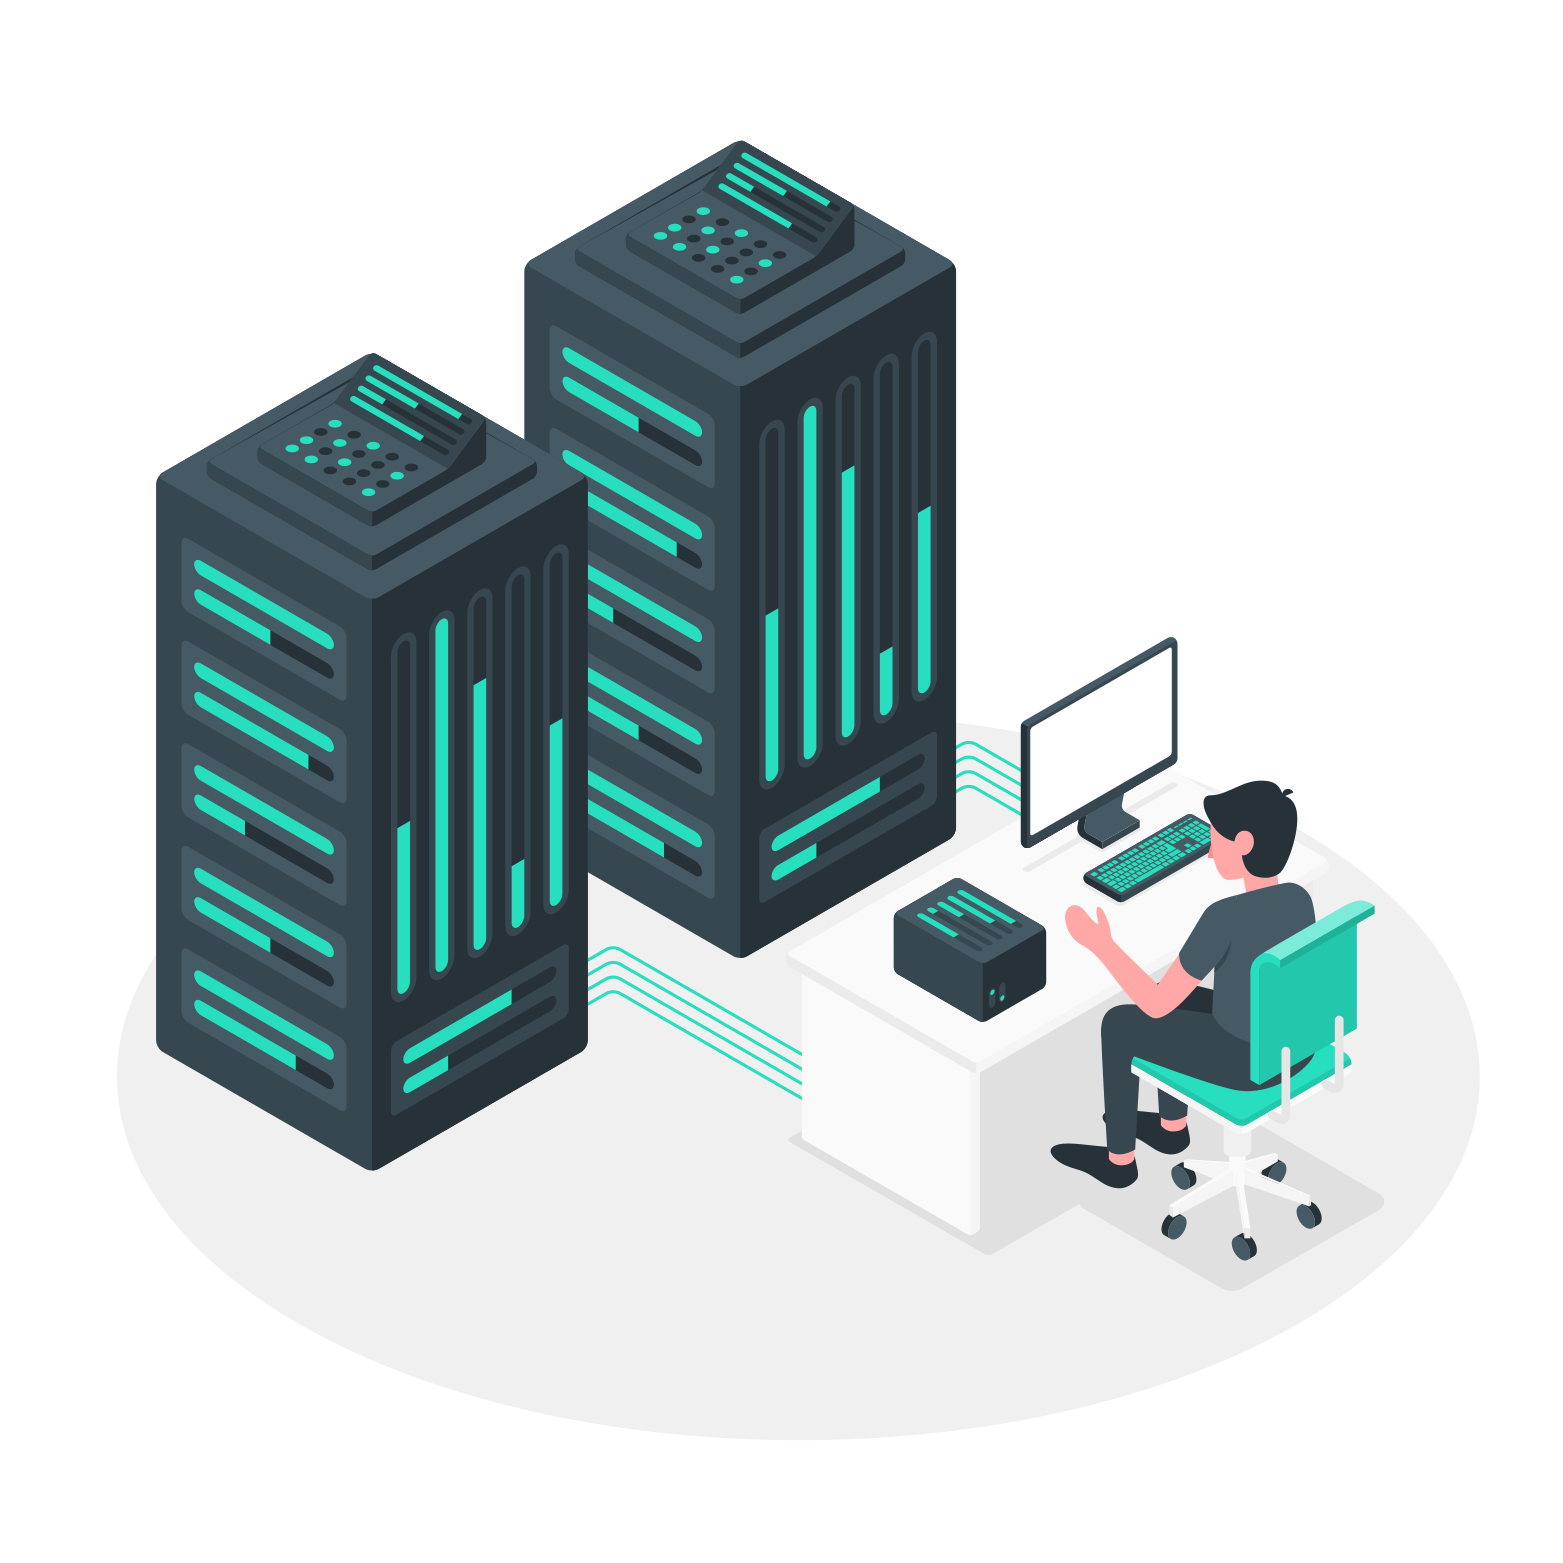
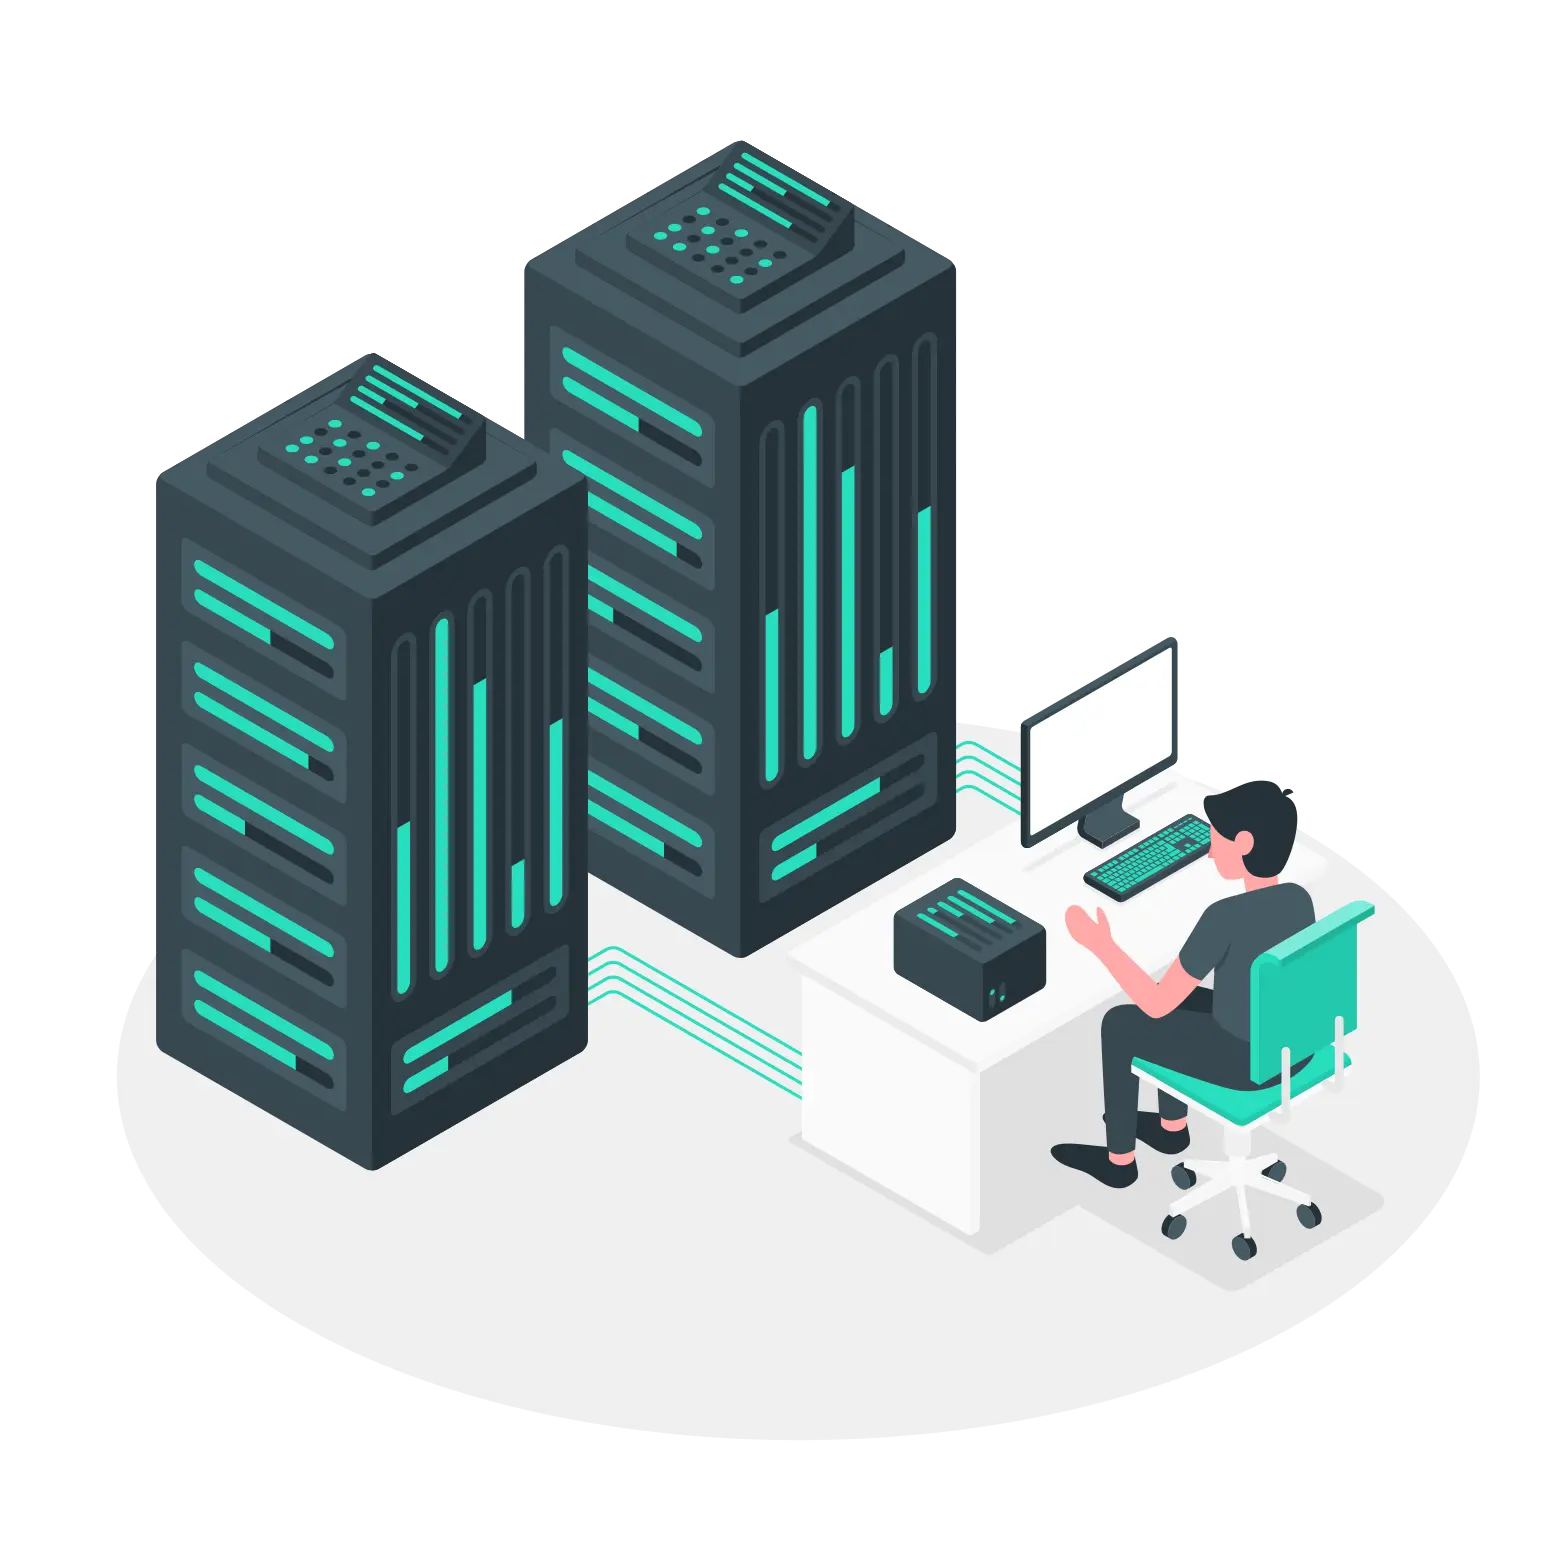
Performance update mainpage

diff --git a/src/app/[locale]/_components/HeroSection.tsx b/src/app/[locale]/_components/HeroSection.tsx
@@ -7,19 +7,8 @@ import { FaGamepad, FaGlobe, FaDiscord } from 'react-icons/fa';
 import { motion, useReducedMotion } from 'framer-motion';
 import Slider from '@/components/Slider/Slider';
 import AnimatedBackground from '@/components/AnimatedBackground/AnimatedBackground';
-import dynamic from 'next/dynamic';
+import Image from 'next/image';
 import { useMediaQuery } from '@/hooks/useMediaQuery';
-
-// Dynamically import the SVG components
-const ServerKastGuy = dynamic(() => import('@/assets/svg/mainpage/server-kast-guy.svg'), {
-  loading: () => <div className="w-full h-[300px] bg-[var(--color-bg-secondary)] animate-pulse rounded-lg" />,
-  ssr: false
-});
-
-// const ServerKastGuySmaller = dynamic(() => import('@/assets/svg/mainpage/server-kast-guy-smaller.svg'), {
-//   loading: () => <div className="w-full h-[200px] bg-[var(--color-bg-secondary)] animate-pulse rounded-lg" />,
-//   ssr: false
-// });
 
 const HeroSection = () => {
   const t = useTranslations('gameHosting');
@@ -168,7 +157,7 @@ const HeroSection = () => {
             />
           </div>
           
-          {/* Right column - SVG with optimized loading */}
+          {/* Right column - Image */}
           <div className="w-full md:w-1/2 flex flex-col items-center mt-12 md:mt-0 max-w-full">
             <motion.div 
               className="relative w-full flex justify-center px-4"
@@ -177,12 +166,14 @@ const HeroSection = () => {
               <div 
                 className={`w-full h-auto ${isMobile ? 'max-w-[300px]' : 'max-w-[600px]'} ${animationReady && !isMobile ? 'animate-float' : ''}`}
               >
-                {isMobile ? (
-                  <>
-                  </>
-                ) : (
-                  <ServerKastGuy 
-                    aria-label={t('serverIllustrationAlt')}
+                {!isMobile && (
+                  <Image
+                    src="/images/webp/mainpage/server-kast-guy.webp"
+                    alt={t('serverIllustrationAlt')}
+                    width={600}
+                    height={600}
+                    priority
+                    className="w-full h-auto"
                   />
                 )}
               </div>
